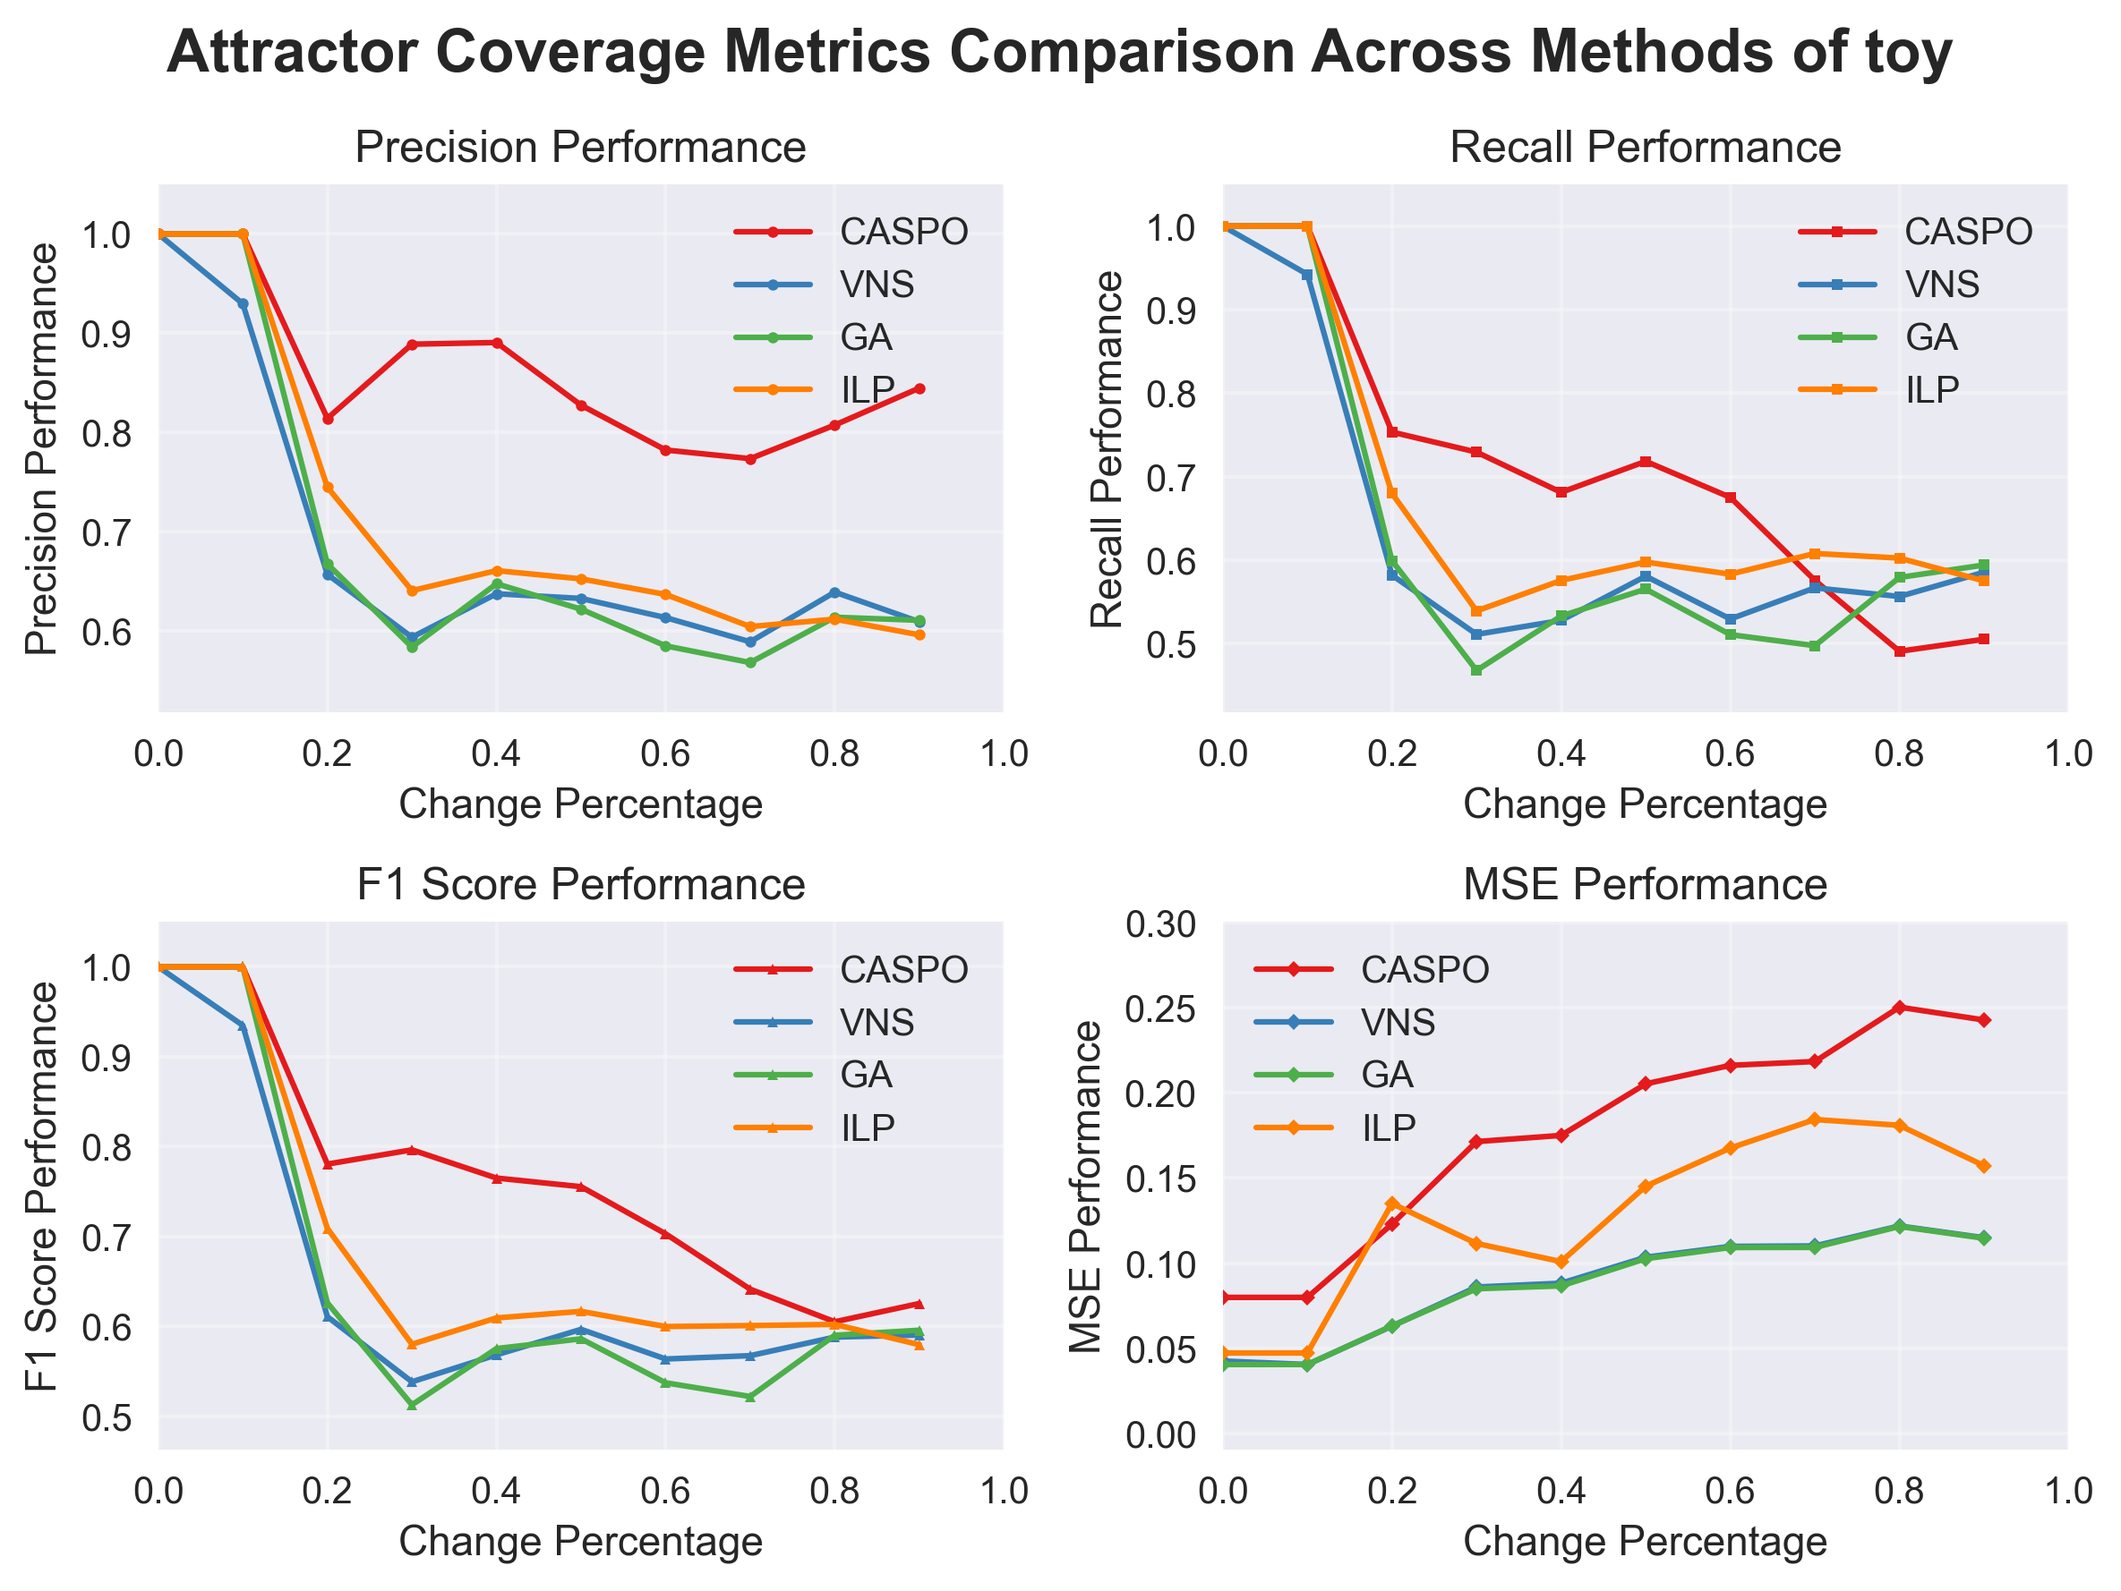
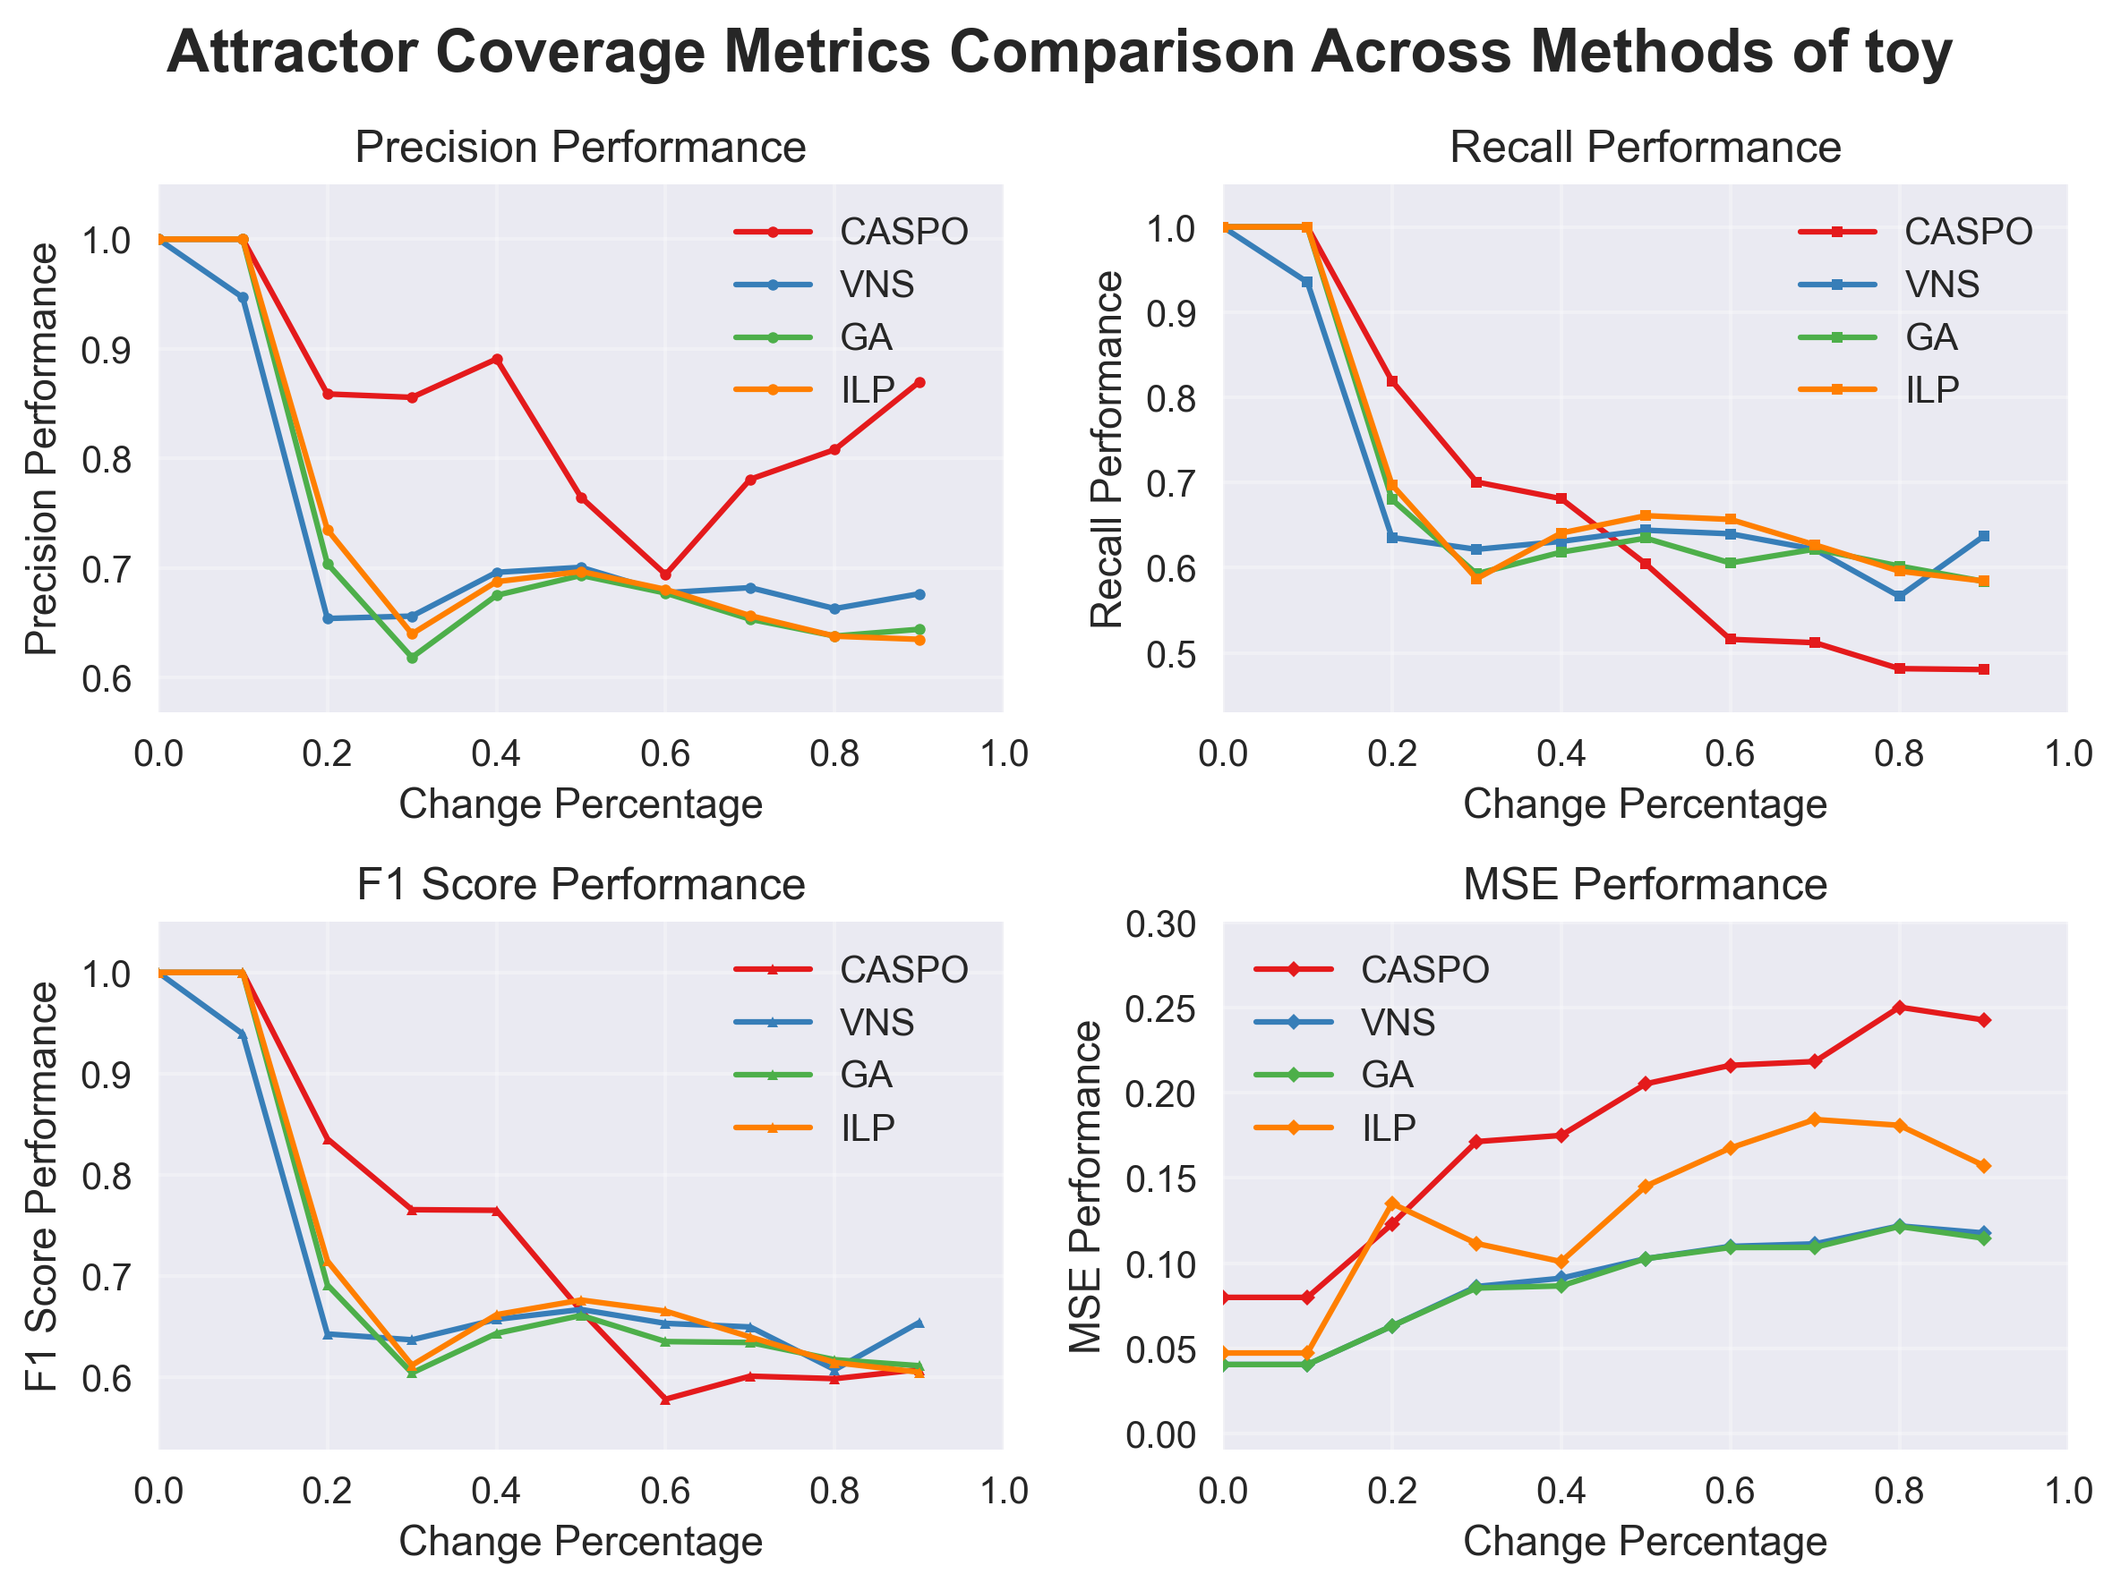
28th AUG update

diff --git a/tools/comparison.py b/tools/comparison.py
@@ -1,6 +1,6 @@
 import pyboolnet.file_exchange as FileExchange
-import pyboolnet.attractors as Attractors
 import pyboolnet.basins_of_attraction as Basins
+from pyboolnet.trap_spaces import compute_steady_states
 import numpy as np
 import pandas as pd
 from scipy.optimize import linear_sum_assignment
@@ -51,9 +51,9 @@ def levenshtein_distance(s1, s2):
     Handles NaN values by treating them as a special character.
     """
     # Convert to strings, treating NaN as special symbol
-    str1 = ''.join(['N' if np.isnan(x) else str(int(x)) for x in s1])
-    str2 = ''.join(['N' if np.isnan(x) else str(int(x)) for x in s2])
-    
+    str1 = ''.join([ 'N' if np.isnan(x) else str(int(x)) for x in s1])
+    str2 = ''.join([str(int(x)) for x in s2 if not np.isnan(x)])
+
     m, n = len(str1), len(str2)
     
     # Create DP matrix
@@ -100,8 +100,8 @@ def longest_common_subsequence(s1, s2):
     Handles NaN values by treating them as a special character.
     """
     # Convert to strings, treating NaN as special symbol
-    str1 = ''.join(['N' if np.isnan(x) else str(int(x)) for x in s1])
-    str2 = ''.join(['N' if np.isnan(x) else str(int(x)) for x in s2])
+    str1 = ''.join([ 'N' if np.isnan(x) else str(int(x)) for x in s1])
+    str2 = ''.join([str(int(x)) for x in s2 if not np.isnan(x)])
     
     m, n = len(str1), len(str2)
     
@@ -162,14 +162,16 @@ class AttractorAnalysis:
     @staticmethod
     def compute_attractors(primes):  
         logging.disable(logging.INFO)
-        result = Attractors.compute_attractors(primes, "synchronous") 
+        # result = Attractors.compute_attractors(primes, "synchronous") 
+        result = compute_steady_states(primes)
         logging.disable(logging.NOTSET)
         return result
 
     def get_attractors(self, bnet_file):
         primes = AttractorAnalysis.load_bnet(bnet_file)
         attrs = AttractorAnalysis.compute_attractors(primes)
-        return primes, [x['state'] for x in attrs['attractors']]
+        # return primes, [x['state'] for x in attrs['attractors']]
+        return primes, attrs
     
     @staticmethod
     def get_basin_sizes(primes, state):   
@@ -212,48 +214,48 @@ class AttractorComparison:
     """
 
     def __init__(self, ori_primes, original_attractors, recon_primes, 
-                 reconstructed_attractors, basin_weight=0.3, strategy="top_k"):
+                 reconstructed_attractors, basin_weight=0.3, strategy="random"):
         self.ori_primes = ori_primes
         self.recon_primes = recon_primes
         self.basin_weight = basin_weight  # Weight for basin size consideration        
         
         self.recon_total = len(reconstructed_attractors)
         self.original_attractors = original_attractors
-        if strategy == 'top_k':
-            self.reconstructed_attractors = self._select_attractors_for_comparison(
-                reconstructed_attractors, len(original_attractors)
-            )
-        else:
+        if strategy is None:
             self.reconstructed_attractors = reconstructed_attractors
+        else:
+            self.reconstructed_attractors = self._select_attractors_for_comparison(
+                reconstructed_attractors, len(original_attractors), strategy
+            )
             
         # Get node sets
         self.orig_nodes = self._get_nodes_from_attractors(self.original_attractors)
         self.recon_nodes = self._get_nodes_from_attractors(self.reconstructed_attractors)
         self.common_nodes = self.orig_nodes.intersection(self.recon_nodes)
         self.all_nodes = sorted(list(self.orig_nodes.union(self.recon_nodes)))
-        
         # Build enhanced representations
-        self._build_enhanced_representations()
-        
-        # Compute basin sizes for weighting
-        self.orig_basins = self._compute_basin_sizes(ori_primes, self.original_attractors)
-        self.recon_basins = self._compute_basin_sizes(recon_primes, self.reconstructed_attractors)
+        self._build_enhanced_representations() 
         
     def _compute_basin_sizes(self, primes, attractors):
-        weight = [AttractorAnalysis.get_basin_sizes(primes, att['str']) for att in attractors]        
+        weight = [AttractorAnalysis.get_basin_sizes(primes, att['attr']) for att in attractors]        
         weights = np.array(weight)
         # Normalize to prevent scale issues
         return weights / np.sum(weights) if np.sum(weights) > 0 else weights
     
-    def _select_attractors_for_comparison(self, attractors, max_count):
+    def _select_attractors_for_comparison(self, attractors, max_count, strategy):
         if len(attractors) <= max_count:
             return attractors
-        # Select top K attractors by basin size
-        basin_sizes = self._compute_basin_sizes(self.recon_primes, attractors)
-        #  Normalize basin sizes to [0,1] to prevent overflow
-        basin_sizes = basin_sizes / np.max(basin_sizes) if np.max(basin_sizes) > 0 else basin_sizes
+        top_indices = []
+        if strategy == "top_k":
+            # Select top K attractors by basin size
+            basin_sizes = self._compute_basin_sizes(self.recon_primes, attractors)
+            #  Normalize basin sizes to [0,1] to prevent overflow
+            basin_sizes = basin_sizes / np.max(basin_sizes) if np.max(basin_sizes) > 0 else basin_sizes
         # Get indices of top K attractors
-        top_indices = np.argsort(basin_sizes)[::-1][:max_count]
+            top_indices = np.argsort(basin_sizes)[::-1][:max_count]
+        elif strategy == "random":
+            # Select random attractors
+            top_indices = np.random.choice(len(attractors), size=max_count, replace=False)
         return [attractors[i] for i in top_indices]  
     
     def _get_nodes_from_attractors(self, attractors):
@@ -262,7 +264,7 @@ class AttractorComparison:
             return set()
         nodes = set()
         for att in attractors:
-            nodes.update(att['dict'].keys())
+            nodes.update(att.keys())
         return nodes
     
     def _build_enhanced_representations(self):
@@ -277,8 +279,8 @@ class AttractorComparison:
         for att in self.original_attractors:
             vector = []
             for node in self.all_nodes:
-                if node in att['dict']:
-                    vector.append(float(att['dict'][node]))
+                if node in att:
+                    vector.append(float(att[node]))
                 else:
                     vector.append(np.nan)  # Missing node
             self.orig_enhanced.append(vector)
@@ -287,8 +289,8 @@ class AttractorComparison:
         for att in self.reconstructed_attractors:
             vector = []
             for node in self.all_nodes:
-                if node in att['dict']:
-                    vector.append(float(att['dict'][node]))
+                if node in att:
+                    vector.append(float(att[node]))
                 else:
                     vector.append(np.nan)  # Missing node
             self.recon_enhanced.append(vector)
@@ -331,6 +333,7 @@ class AttractorComparison:
         
         for i in range(n_orig):
             for j in range(n_recon):
+                # print(f"Computing {similarity_type} similarity between original attractor {i} and reconstructed attractor {j}")
                 sim_matrix[i, j] = self._compute_pairwise_similarity(
                     self.orig_enhanced[i], self.recon_enhanced[j], similarity_type)
         
@@ -475,13 +478,13 @@ class AttractorComparison:
     
 if __name__ == "__main__":
     # ori_primes = "data/ToyModel/ToyModel.bnet"
-    # ori_primes = "output/cellnopt/ToyModel/0_Modified/ga/OPT_ToyModel.bnet"
+    ori_primes = "output/cellnopt/ToyModel/0_Modified/ga/OPT_ToyModel.bnet"
     # ori_primes = "output/meigo/ToyModel/0_Modified/VNS/OPT_ToyModel.bnet"
-    ori_primes = "output/caspo/ToyModel/0_Modified/OPT_ToyModel.bnet"
+    # ori_primes = "output/caspo/ToyModel/0_Modified/OPT_ToyModel.bnet"
     # compared_bnet = "data/ToyModel/ToyModel.bnet"
-    # compared_bnet = "output/cellnopt/ToyModel/80_Modified/ga/OPT_ToyModel.bnet"
+    compared_bnet = "output/cellnopt/ToyModel/80_Modified/ga/OPT_ToyModel.bnet"
     # compared_bnet = "output/caspo/ToyModel/50_Modified/OPT_ToyModel.bnet"
-    compared_bnet = "output/caspo/ToyModel/10_Modified/OPT_ToyModel.bnet"
+    # compared_bnet = "output/caspo/ToyModel/10_Modified/OPT_ToyModel.bnet"
     # The code you provided is a Python code snippet that seems to be commented out. It appears to be
     # assigning a file path to a variable `ori_primes`. The file path seems to be related to a
     # Bayesian network file in the context of a cell signaling network model. However, since the code

diff --git a/Step_03_Performance.py b/Step_03_Performance.py
@@ -286,8 +286,7 @@ class OptimizedNetworkRunner:
             sif_net1 = BooleanNetworkGraph.read_sif(gd_sif)
             sif_net2 = BooleanNetworkGraph.read_sif(opt_sif)
             
-            sif_analyzer = NetworkTopologyAnalyzer(sif_net1, sif_net2)          
-            report = sif_analyzer.comprehensive_similarity_report()     
+            sif_analyzer = NetworkTopologyAnalyzer(sif_net1, sif_net2) 
             
             # Combine results
             eval_results = {}
@@ -296,13 +295,12 @@ class OptimizedNetworkRunner:
                 eval_results.update(attractor_results.iloc[0].to_dict())
             else:
                 # If it's already a dict
-                eval_results.update(attractor_results)
-                
-            eval_results['edge_jaccard_topology'] = limit_float(report['basic_metrics']['jaccard_edge_similarity'])
-            eval_results['node_jaccard_topology'] = limit_float(report['basic_metrics']['node_overlap_similarity'])
-            eval_results['graph_edit_distance'] = limit_float(report['basic_metrics']['graph_edit_distance'])
-            eval_results['degree_distribution'] = limit_float(report['degree_distribution']['similar'])
-            eval_results['overall_similarity'] = limit_float(report['overall_similarity_score'])
+                eval_results.update(attractor_results) 
+                         
+            eval_results['edge_jaccard_topology'] = sif_analyzer.jaccard_similarity()
+            eval_results['node_jaccard_topology'] = sif_analyzer.node_overlap_similarity()
+            eval_results['graph_edit_distance']   = sif_analyzer.graph_edit_distance(normalized=True)
+               
             return eval_results
             
         except Exception as e:
@@ -591,7 +589,7 @@ def main():
     
     # Run analysis
     logger.info(f"Starting analysis: {args.ntimes} iterations on {args.dataset}")
-    
+    start_time = time.time()
     for i in range(1, args.ntimes + 1):
         logger.info(f"=== Iteration {i}/{args.ntimes} ===")
         logger.info("Step A: Running perturbation...")
@@ -617,7 +615,7 @@ def main():
             )
         
         logger.info(f"Iteration {i} completed: {len(df)} results")
-    
+    logger.info(f"All iterations completed in {(time.time() - start_time)/ 60:.2f} minutes")
     logger.info("Analysis completed successfully!")
 
 if __name__ == "__main__":

diff --git a/tools/caspoTest.py b/tools/caspoTest.py
@@ -171,16 +171,13 @@ class CaspoOptimizer:
         print(f"SIF Network 2: {sif_net2.number_of_nodes()} nodes, {sif_net2.number_of_edges()} edges")
         
         # Quick similarity check
-        sif_analyzer = NetworkTopologyAnalyzer(sif_net1, sif_net2)        
-        report = sif_analyzer.comprehensive_similarity_report()     
+        sif_analyzer = NetworkTopologyAnalyzer(sif_net1, sif_net2)   
+        results['edge_jaccard_topology'] = sif_analyzer.jaccard_similarity()
+        results['node_jaccard_topology'] = sif_analyzer.node_overlap_similarity()
+        results['graph_edit_distance']   = sif_analyzer.graph_edit_distance(normalized=True)
 
-        results['edge_jaccard_topology'] = limit_float(report['basic_metrics']['jaccard_edge_similarity'])
-        results['node_jaccard_topology'] = limit_float(report['basic_metrics']['node_overlap_similarity'])
-        results['graph_edit_distance'] = limit_float(report['basic_metrics']['graph_edit_distance'])
-        results['degree_distribution'] = limit_float(report['degree_distribution']['similar'])
-        results['overall_similarity'] = limit_float(report['overall_similarity_score'])
-        return results    
-    
+        return results
+
     def run(self):
         print(f"Running Caspo on dataset: {self.dataset} with change percent: {self.ChangePct}")
         graph = core.Graph.read_sif(self.sif_file)

diff --git a/doc/Week6 Report.md b/doc/Week6 Report.md
@@ -234,11 +234,11 @@ import pyboolnet.attractors as Attractors
 import pyboolnet.basins_of_attraction as Basins
 import pyboolnet.state_transition_graphs as STGs
 import numpy as np
-ori_file = "output/caspo/ToyModel/0_Modified/OPT_ToyModel.bnet"
-cand_file = "output/caspo/ToyModel/10_Modified/OPT_ToyModel.bnet"
-# ori_file = "data/ToyModel/ToyModel.bnet"
+# ori_file = "output/caspo/ToyModel/0_Modified/OPT_ToyModel.bnet"
+# cand_file = "output/caspo/ToyModel/10_Modified/OPT_ToyModel.bnet"
+ori_file = "data/ToyModel/ToyModel.bnet"
 # # cand_file = "data/ToyModel/50_Modified/ToyModel.bnet"
-# cand_file = "output/cellnopt/ToyModel/80_Modified/ga/OPT_ToyModel.bnet"
+cand_file = "output/cellnopt/ToyModel/80_Modified/ga/OPT_ToyModel.bnet"
 ori_prime = FileExchange.bnet2primes(ori_file)
 cand_prime = FileExchange.bnet2primes(cand_file)
 ori_attractors = Attractors.compute_attractors(ori_prime, "asynchronous") 

diff --git a/doc/DREAMmodel Report.md b/doc/DREAMmodel Report.md
@@ -1,6 +1,4 @@
 ```r
-data(CNOlistDREAM,package="CellNOptR")
-data(DreamModel,package="CellNOptR")
 summarizeDreamData <- function(model, CNOl) {
   # 1) Network (BoolNet) summary
   n_nodes       <- length(model$namesSpecies)
@@ -30,6 +28,15 @@ summarizeDreamData <- function(model, CNOl) {
   cat("• Time‐points per experiment:", n_times, "\n")
   cat("• Total experiments (rows)  :", n_samples, "\n")
 }
+library(CellNOptR)
+data(CNOlistDREAM,package="CellNOptR")
+data(DreamModel,package="CellNOptR")
+
+data(CNOlistToy,package="CellNOptR")
+data(ToyModel,package="CellNOptR")
+summarizeDreamData(DreamModel, CNOlistDREAM)
+summarizeDreamData(ToyModel, CNOlistToy)
+
 ```
 === Network summary ===
 • Nodes (species)         : 40 
